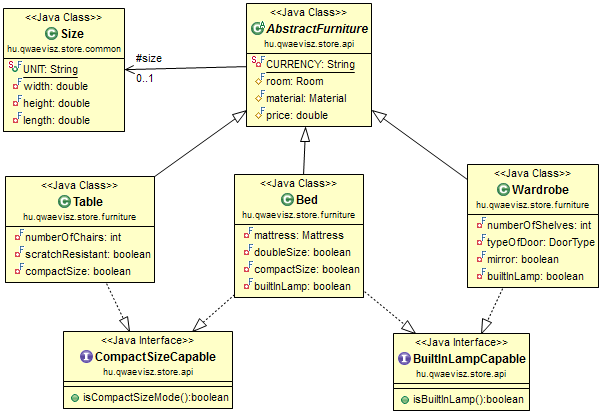
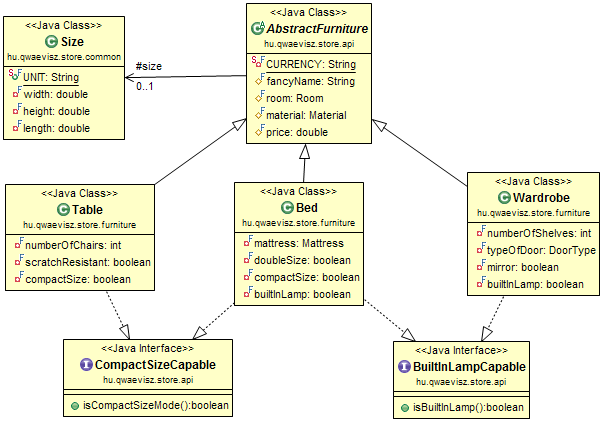
ADD: market goods for Swedish store

diff --git a/SwedishStore/src/main/hu/qwaevisz/store/api/AbstractFurniture.java b/SwedishStore/src/main/hu/qwaevisz/store/api/AbstractFurniture.java
@@ -4,7 +4,7 @@ import hu.qwaevisz.store.common.Material;
 import hu.qwaevisz.store.common.Room;
 import hu.qwaevisz.store.common.Size;
 
-public abstract class AbstractFurniture {
+public abstract class AbstractFurniture implements Salable {
 
 	private static final String	CURRENCY	= "EUR";
 
@@ -27,6 +27,7 @@ public abstract class AbstractFurniture {
 		return this.material;
 	}
 
+	@Override
 	public double getPrice() {
 		return this.price;
 	}
@@ -39,6 +40,7 @@ public abstract class AbstractFurniture {
 		return this.size;
 	}
 
+	@Override
 	public String getFancyName() {
 		return this.fancyName;
 	}
@@ -47,6 +49,15 @@ public abstract class AbstractFurniture {
 	public int hashCode() {
 		return this.room.hashCode() * this.material.hashCode() * this.size.hashCode();
 	}
+
+	@Override
+	public String sell(int pieces) {
+		return pieces + " piece(s) " + this.printFancyName() + " " + this.printType() + " was sold. " + this.sellDetails();
+	}
+
+	protected abstract String printType();
+
+	protected abstract String sellDetails();
 
 	@Override
 	public boolean equals(Object othat) {
@@ -65,8 +76,12 @@ public abstract class AbstractFurniture {
 
 	@Override
 	public String toString() {
-		return String.format("%-10s", this.fancyName.toUpperCase()) + this.room + " " + this.material + " " + this.size + " "
+		return this.printType() + this.printFancyName() + this.room + " " + this.material + " " + this.size + " "
 				+ String.format("%3s", Math.round(this.price)) + " " + AbstractFurniture.CURRENCY;
+	}
+
+	private String printFancyName() {
+		return String.format("%-10s", this.fancyName.toUpperCase());
 	}
 
 }

diff --git a/SwedishStore/src/main/hu/qwaevisz/store/api/AbstractMarketGoods.java b/SwedishStore/src/main/hu/qwaevisz/store/api/AbstractMarketGoods.java
@@ -1,0 +1,42 @@
+package hu.qwaevisz.store.api;
+
+import hu.qwaevisz.store.common.SupplementaryType;
+
+public abstract class AbstractMarketGoods implements Salable {
+
+	protected final SupplementaryType	supplementaryType;
+
+	protected final String				fancyName;
+	protected final double				price;
+
+	public AbstractMarketGoods(String fancyName, SupplementaryType supplementaryType, double price) {
+		this.fancyName = fancyName;
+		this.supplementaryType = supplementaryType;
+		this.price = price;
+	}
+
+	@Override
+	public String getFancyName() {
+		return this.fancyName;
+	}
+
+	public SupplementaryType getSupplementaryType() {
+		return this.supplementaryType;
+	}
+
+	@Override
+	public double getPrice() {
+		return this.price;
+	}
+
+	@Override
+	public String sell(int pieces) {
+		return "Item sold.";
+	}
+
+	@Override
+	public String toString() {
+		return this.fancyName + " " + this.supplementaryType + String.format("%3s", Math.round(this.price));
+	}
+
+}

diff --git a/SwedishStore/src/main/hu/qwaevisz/store/furniture/Wardrobe.java b/SwedishStore/src/main/hu/qwaevisz/store/furniture/Wardrobe.java
@@ -68,8 +68,18 @@ public class Wardrobe extends AbstractFurniture implements BuiltInLampCapable {
 
 	@Override
 	public String toString() {
-		return CsvFurnitureType.WARDROBE.toString() + super.toString() + ", " + this.numberOfShelves + " shel(f/ves) " + this.typeOfDoor + " "
-				+ (this.mirror ? "[Mirror] " : "") + (this.builtInLamp ? "[BuiltInLamp]" : "");
+		return super.toString() + ", " + this.numberOfShelves + " shel(f/ves) " + this.typeOfDoor + " " + (this.mirror ? "[Mirror] " : "")
+				+ (this.builtInLamp ? "[BuiltInLamp]" : "");
+	}
+
+	@Override
+	protected String printType() {
+		return CsvFurnitureType.TABLE.toString();
+	}
+
+	@Override
+	protected String sellDetails() {
+		return "Frame have to get from warehouse by customer, but the " + this.typeOfDoor + " has to get by fellow worker of store.";
 	}
 
 }

diff --git a/SwedishStore/src/main/hu/qwaevisz/store/market/Lamp.java b/SwedishStore/src/main/hu/qwaevisz/store/market/Lamp.java
@@ -1,0 +1,33 @@
+package hu.qwaevisz.store.market;
+
+import hu.qwaevisz.store.api.AbstractMarketGoods;
+import hu.qwaevisz.store.common.LampType;
+import hu.qwaevisz.store.common.SupplementaryType;
+
+public class Lamp extends AbstractMarketGoods {
+
+	private static final String	LUMEN	= "lm";
+
+	private final LampType		lampType;
+	private final int			flux;
+
+	public Lamp(String fancyName, SupplementaryType supplementaryType, double price, LampType lampType, int flux) {
+		super(fancyName, supplementaryType, price);
+		this.lampType = lampType;
+		this.flux = flux;
+	}
+
+	public LampType getLampType() {
+		return this.lampType;
+	}
+
+	public int getFlux() {
+		return this.flux;
+	}
+
+	@Override
+	public String toString() {
+		return super.toString() + " " + this.lampType + " " + this.flux + " " + Lamp.LUMEN;
+	}
+
+}

diff --git a/SwedishStore/src/main/hu/qwaevisz/store/furniture/Table.java b/SwedishStore/src/main/hu/qwaevisz/store/furniture/Table.java
@@ -59,7 +59,18 @@ public class Table extends AbstractFurniture implements CompactSizeCapable {
 
 	@Override
 	public String toString() {
-		return CsvFurnitureType.TABLE.toString() + super.toString() + ", " + this.numberOfChairs + " chair(s) "
-				+ (this.scratchResistant ? "[ScratchResistant] " : "") + (this.compactSize ? "[CompactSize] " : "");
+		return super.toString() + ", " + this.numberOfChairs + " chair(s) " + (this.scratchResistant ? "[ScratchResistant] " : "")
+				+ (this.compactSize ? "[CompactSize] " : "");
 	}
+
+	@Override
+	protected String printType() {
+		return CsvFurnitureType.TABLE.toString();
+	}
+
+	@Override
+	protected String sellDetails() {
+		return "The table and the attached " + this.numberOfChairs + " chair(s) have to get from warehouse by customer.";
+	}
+
 }

diff --git a/SwedishStore/src/main/hu/qwaevisz/store/furniture/Bed.java b/SwedishStore/src/main/hu/qwaevisz/store/furniture/Bed.java
@@ -69,8 +69,18 @@ public class Bed extends AbstractFurniture implements BuiltInLampCapable, Compac
 
 	@Override
 	public String toString() {
-		return CsvFurnitureType.BED.toString() + super.toString() + " " + this.mattress + " " + (this.doubleSize ? "[DoubleSize] " : "[SingleSize] ")
+		return super.toString() + " " + this.mattress + " " + (this.doubleSize ? "[DoubleSize] " : "[SingleSize] ")
 				+ (this.compactSize ? "[CompactSize] " : "") + (this.builtInLamp ? "[BuiltInLamp]" : "");
+	}
+
+	@Override
+	protected String printType() {
+		return CsvFurnitureType.BED.toString();
+	}
+
+	@Override
+	protected String sellDetails() {
+		return "Slats have to get from warehouse by customer, but the " + this.mattress + " has to get by fellow worker of store.";
 	}
 
 }

diff --git a/SwedishStore/src/main/hu/qwaevisz/store/engine/Store.java b/SwedishStore/src/main/hu/qwaevisz/store/engine/Store.java
@@ -24,6 +24,7 @@ import java.util.Map;
 
 public class Store implements IStore {
 
+	// final Map<Salable, Integer>
 	private final Map<AbstractFurniture, Integer>	items;
 
 	public Store() {
@@ -96,13 +97,16 @@ public class Store implements IStore {
 	}
 
 	@Override
-	public void buy(AbstractFurniture furniture, int count) {
+	public String buy(AbstractFurniture furniture, int count) {
+		String info = null;
 		if (this.items.containsKey(furniture)) {
 			Integer pieces = this.items.get(furniture);
 			if (count > 0 && (pieces - count) >= 0) {
+				info = furniture.sell(count);
 				this.addFurniture(furniture, new Integer(count * -1));
 			}
 		}
+		return info;
 	}
 
 	@Override

diff --git a/SwedishStore/src/main/hu/qwaevisz/store/market/DinnerwareSet.java b/SwedishStore/src/main/hu/qwaevisz/store/market/DinnerwareSet.java
@@ -1,0 +1,24 @@
+package hu.qwaevisz.store.market;
+
+import hu.qwaevisz.store.api.AbstractMarketGoods;
+import hu.qwaevisz.store.common.SupplementaryType;
+
+public class DinnerwareSet extends AbstractMarketGoods {
+
+	private final boolean	colored;
+
+	public DinnerwareSet(String fancyName, SupplementaryType supplementaryType, double price, boolean colored) {
+		super(fancyName, supplementaryType, price);
+		this.colored = colored;
+	}
+
+	public boolean isColored() {
+		return this.colored;
+	}
+
+	@Override
+	public String toString() {
+		return super.toString() + (this.colored ? "[Colored] " : "");
+	}
+
+}

diff --git a/SwedishStore/src/main/hu/qwaevisz/store/common/SupplementaryType.java b/SwedishStore/src/main/hu/qwaevisz/store/common/SupplementaryType.java
@@ -1,0 +1,22 @@
+package hu.qwaevisz.store.common;
+
+public enum SupplementaryType {
+
+	KitchenTool("Kitchen tool"), //
+	BathTool("Bath tool"), //
+	Decoration("Decoration"), //
+	GardenTool("Garden tool"), //
+	DeskTool("Desk tool");
+
+	private final String	label;
+
+	private SupplementaryType(String label) {
+		this.label = label;
+	}
+
+	@Override
+	public String toString() {
+		return "[" + String.format("%-13s", this.label) + "]";
+	}
+
+}

diff --git a/SwedishStore/src/main/hu/qwaevisz/store/common/LampType.java b/SwedishStore/src/main/hu/qwaevisz/store/common/LampType.java
@@ -1,0 +1,20 @@
+package hu.qwaevisz.store.common;
+
+public enum LampType {
+
+	TableLamp("table lamp"), //
+	NightLight("night light"), //
+	Chandelier("chandelier");
+
+	private final String	label;
+
+	private LampType(String label) {
+		this.label = label;
+	}
+
+	@Override
+	public String toString() {
+		return "[" + String.format("%-13s", this.label) + "]";
+	}
+
+}

diff --git a/SwedishStore/src/main/hu/qwaevisz/store/common/CsvFurnitureType.java b/SwedishStore/src/main/hu/qwaevisz/store/common/CsvFurnitureType.java
@@ -1,6 +1,7 @@
 package hu.qwaevisz.store.common;
 
 public enum CsvFurnitureType {
+
 	BED("Bed"), //
 	TABLE("Table"), //
 	WARDROBE("Wardrobe");
@@ -13,7 +14,7 @@ public enum CsvFurnitureType {
 
 	@Override
 	public String toString() {
-		return String.format("%-9s", this.label) + ": ";
+		return String.format("%-9s", this.label);
 	}
 
 }

diff --git a/SwedishStore/src/main/hu/qwaevisz/store/main/Program.java b/SwedishStore/src/main/hu/qwaevisz/store/main/Program.java
@@ -126,7 +126,7 @@ public class Program {
 
 		Program.echoSearchResult("S4", listOfFurniture);
 		// Integer count = store.getCount(listOfFurniture.get(0));
-		store.buy(listOfFurniture.get(0), 2);
+		System.out.println(store.buy(listOfFurniture.get(0), 2));
 
 		Program.echoSearchResult("After buy", store.search(search4));
 	}
